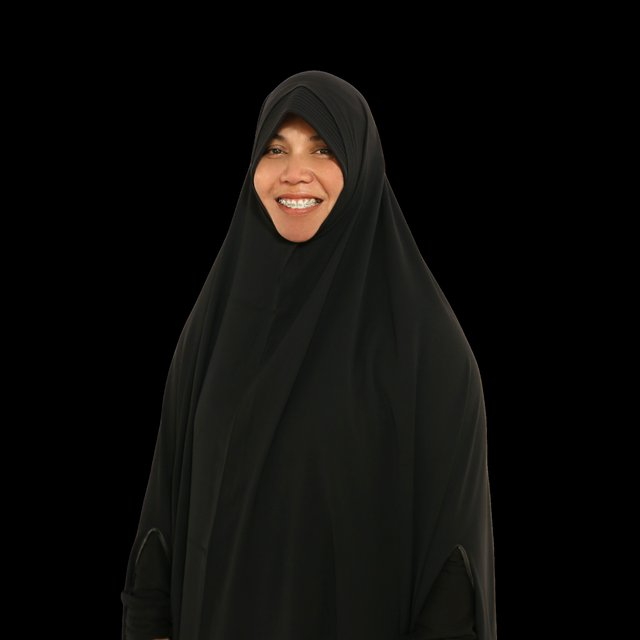
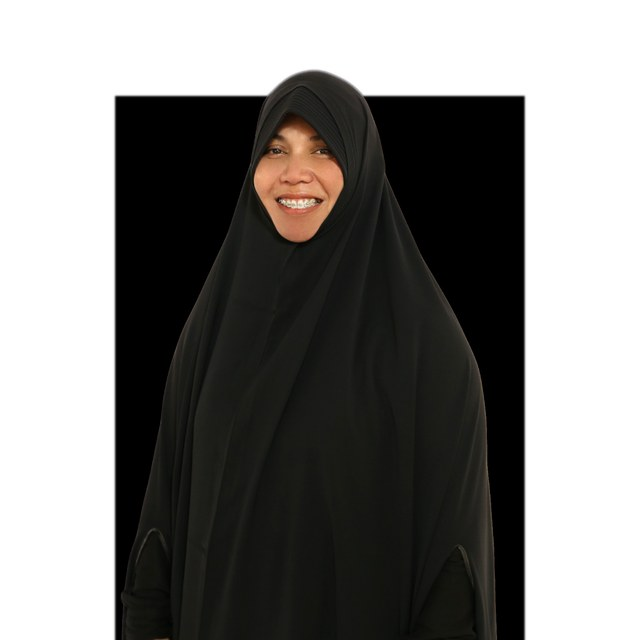
Speaker photos: correct order + white background (GrabCut), mobile seat map bigger tap targets (per-seat scale + halo), closing CTA section

diff --git a/frontend/src/pages/LandingPage.jsx b/frontend/src/pages/LandingPage.jsx
@@ -823,6 +823,34 @@ export default function LandingPage({ onSelectPackage, setPage }) {
                   </div>
                 </div>
               </div>
+
+              {/* ===== CTA Penutup ===== */}
+              <section id="cta-section" style={{ marginTop: "88px", padding: "84px 0", background: "linear-gradient(135deg, #0c2450 0%, #153f8a 55%, #1d4ed8 100%)", borderRadius: "24px" }}>
+                <div className="container" style={{ textAlign: "center", color: "white" }}>
+                  <span style={{ display: "inline-block", fontSize: "12px", fontWeight: 800, letterSpacing: "1.5px", textTransform: "uppercase", padding: "7px 16px", borderRadius: "999px", background: "rgba(255,255,255,0.12)", border: "1px solid rgba(255,255,255,0.25)", marginBottom: "20px" }}>
+                    ⏳ War Tiket Sedang Berlangsung
+                  </span>
+                  <h2 style={{ fontSize: "clamp(26px, 4.5vw, 40px)", fontWeight: 800, lineHeight: 1.15, marginBottom: "16px" }}>
+                    Kursimu Menunggu di Aula.<br />Amankan Sebelum Habis.
+                  </h2>
+                  <p style={{ fontSize: "16px", lineHeight: 1.6, opacity: 0.85, maxWidth: "560px", margin: "0 auto 32px auto" }}>
+                    Pilih kursimu sendiri di peta 3D, daftar dalam 2 menit, dan konfirmasi pembayaran
+                    langsung via WhatsApp. Seat diambil peserta lain setiap menitnya.
+                  </p>
+                  <a
+                    href="#packages-section"
+                    style={{ display: "inline-flex", alignItems: "center", gap: "10px", background: "white", color: "#153f8a", fontWeight: 800, fontSize: "17px", padding: "16px 36px", borderRadius: "14px", textDecoration: "none", boxShadow: "0 12px 30px rgba(0,0,0,0.25)" }}
+                  >
+                    🎟 Pilih Kursi &amp; Amankan Tiket
+                  </a>
+                  <div style={{ display: "flex", flexWrap: "wrap", gap: "10px 28px", justifyContent: "center", marginTop: "36px", fontSize: "13.5px", opacity: 0.85 }}>
+                    <span>💺 300 seat terbatas</span>
+                    <span>🎤 3 narasumber pilihan</span>
+                    <span>📍 Masjid At-Tohir, Depok</span>
+                    <span>🗓 Rabu, 09 September 2026</span>
+                  </div>
+                </div>
+              </section>
             </React.Fragment>
           )}
         </div>

diff --git a/frontend/src/index.css b/frontend/src/index.css
@@ -942,9 +942,12 @@ footer strong {
   transform-style: preserve-3d;
 }
 .seat3d-seat {
+  --sscale: 1;
   position: absolute;
   width: 15px;
   height: 10px;
+  transform: scale(var(--sscale));
+  transform-origin: center;
   border-radius: 3px 3px 1.5px 1.5px;
   background: linear-gradient(180deg, #f8fafc 0%, #cbd5e1 55%, #94a3b8 100%);
   border: 1px solid rgba(15, 23, 42, 0.45);
@@ -981,7 +984,7 @@ footer strong {
   background: linear-gradient(180deg, #ffffff 0%, #bae6fd 55%, #38bdf8 100%);
   border-color: #0284c7;
   box-shadow: 0 0 8px rgba(56, 189, 248, 0.9), 0 1.5px 0 rgba(0, 0, 0, 0.35);
-  transform: scale(1.25);
+  transform: scale(calc(var(--sscale, 1) * 1.3));
 }
 /* zona aktif (sedang dipilih) vs zona lain di-redupkan */
 .seat3d-zone.zone-active {
@@ -1108,10 +1111,23 @@ footer strong {
 }
 .seat3d-note b { color: #cbd5e1; }
 
+/* perluas area sentuh kursi yang bisa dipilih (mudah di-tap di HP) */
+.seat3d-seat.pickable::after {
+  content: "";
+  position: absolute;
+  inset: -6px;
+}
+
 @media (max-width: 620px) {
   .seat3d-scene {
-    height: 380px;
-    perspective: 760px;
+    height: 420px;
+    perspective: 860px;
+  }
+  .seat3d-seat {
+    --sscale: 1.7;
+  }
+  .seat3d-seat.pickable::after {
+    inset: -6px;
   }
   .seat3d-seat {
     width: 9px;
